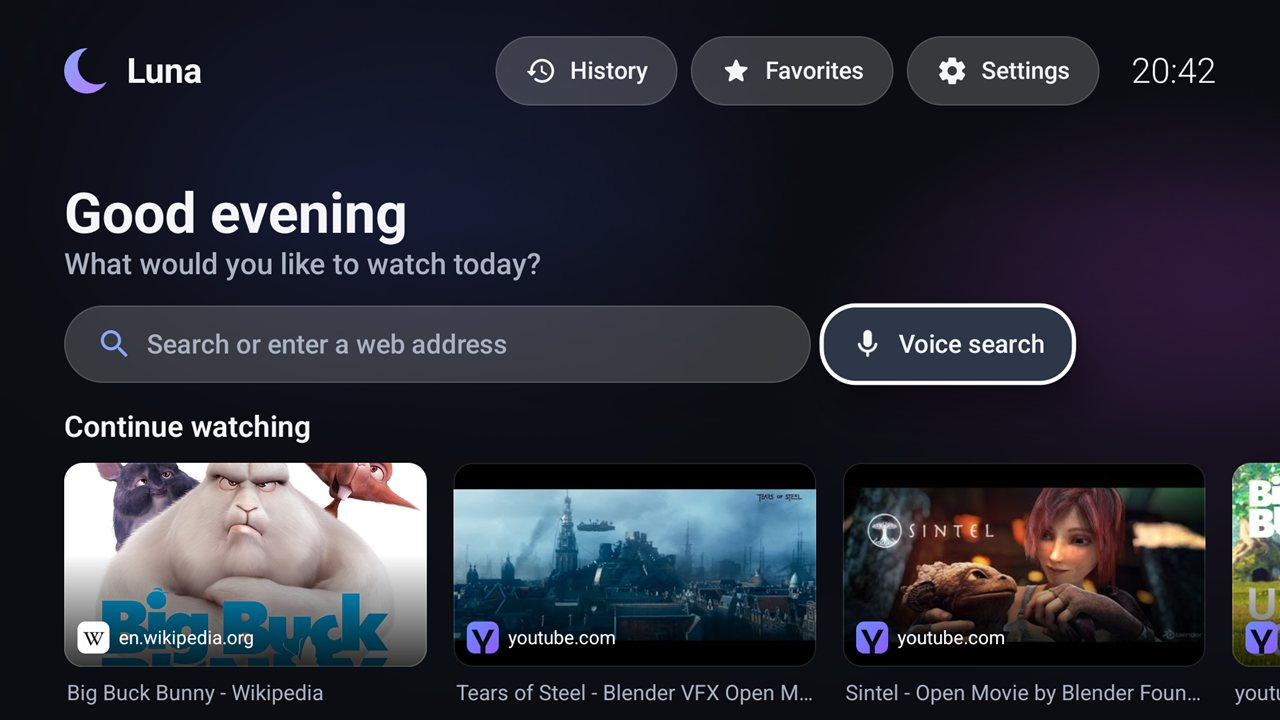
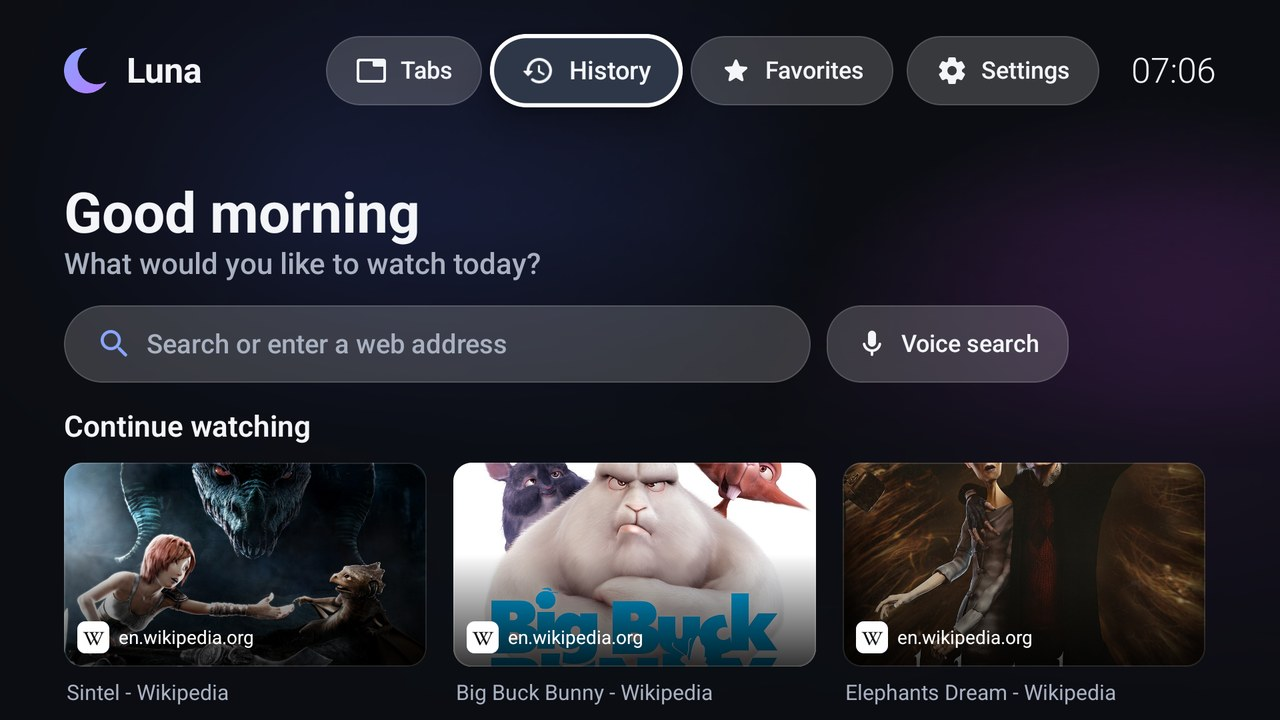
Refresh README screenshots for 0.4.0; fix card row staying scrolled after a tab is closed

diff --git a/app/src/main/java/com/luna/browser/ui/components/CardRow.kt b/app/src/main/java/com/luna/browser/ui/components/CardRow.kt
@@ -10,6 +10,7 @@ import androidx.compose.foundation.layout.fillMaxWidth
 import androidx.compose.foundation.layout.padding
 import androidx.compose.foundation.layout.wrapContentWidth
 import androidx.compose.runtime.Composable
+import androidx.compose.runtime.LaunchedEffect
 import androidx.compose.runtime.getValue
 import androidx.compose.runtime.mutableStateOf
 import androidx.compose.runtime.remember
@@ -79,6 +80,13 @@ fun CardRow(
         if (delta != 0f && viewW > 0) {
             scope.launch { offset.animateTo((offset.value + delta).coerceIn(0f, maxOffset), tween(slideMs)) }
         }
+    }
+
+    // When cards disappear (a tab is closed) the row may be shorter than the current scroll: bring it back.
+    LaunchedEffect(items.size, viewW) {
+        val total = 2 * margin + items.size * cardW + (items.size - 1).coerceAtLeast(0) * gap
+        val maxOffset = (total - viewW).coerceAtLeast(0f)
+        if (offset.value > maxOffset) offset.snapTo(maxOffset)
     }
 
     Column {

diff --git a/README.md b/README.md
@@ -76,6 +76,8 @@ an on-screen pointer you steer with the D-pad, one-press access to everything, v
 | Language picker (Automatic follows the TV), search engine, background | Filter lists with rule counts and update dates |
 | ![Browsing settings](docs/screenshots/08-settings-browsing.jpg) | ![Error screen](docs/screenshots/09-error-state.jpg) |
 | Pointer speed, desktop sites, page text size | Clear errors with one-press recovery |
+| ![Tab switcher](docs/screenshots/12-tabs.jpg) | ![Per-site settings](docs/screenshots/13-site-settings.jpg) |
+| **Tabs:** the same 16:9 cards as Home; **Down** for close / new tab | **Site** button: desktop mode, text size, ad blocking and pointer mode for one site only |
 
 ### Your phone as a remote
 
